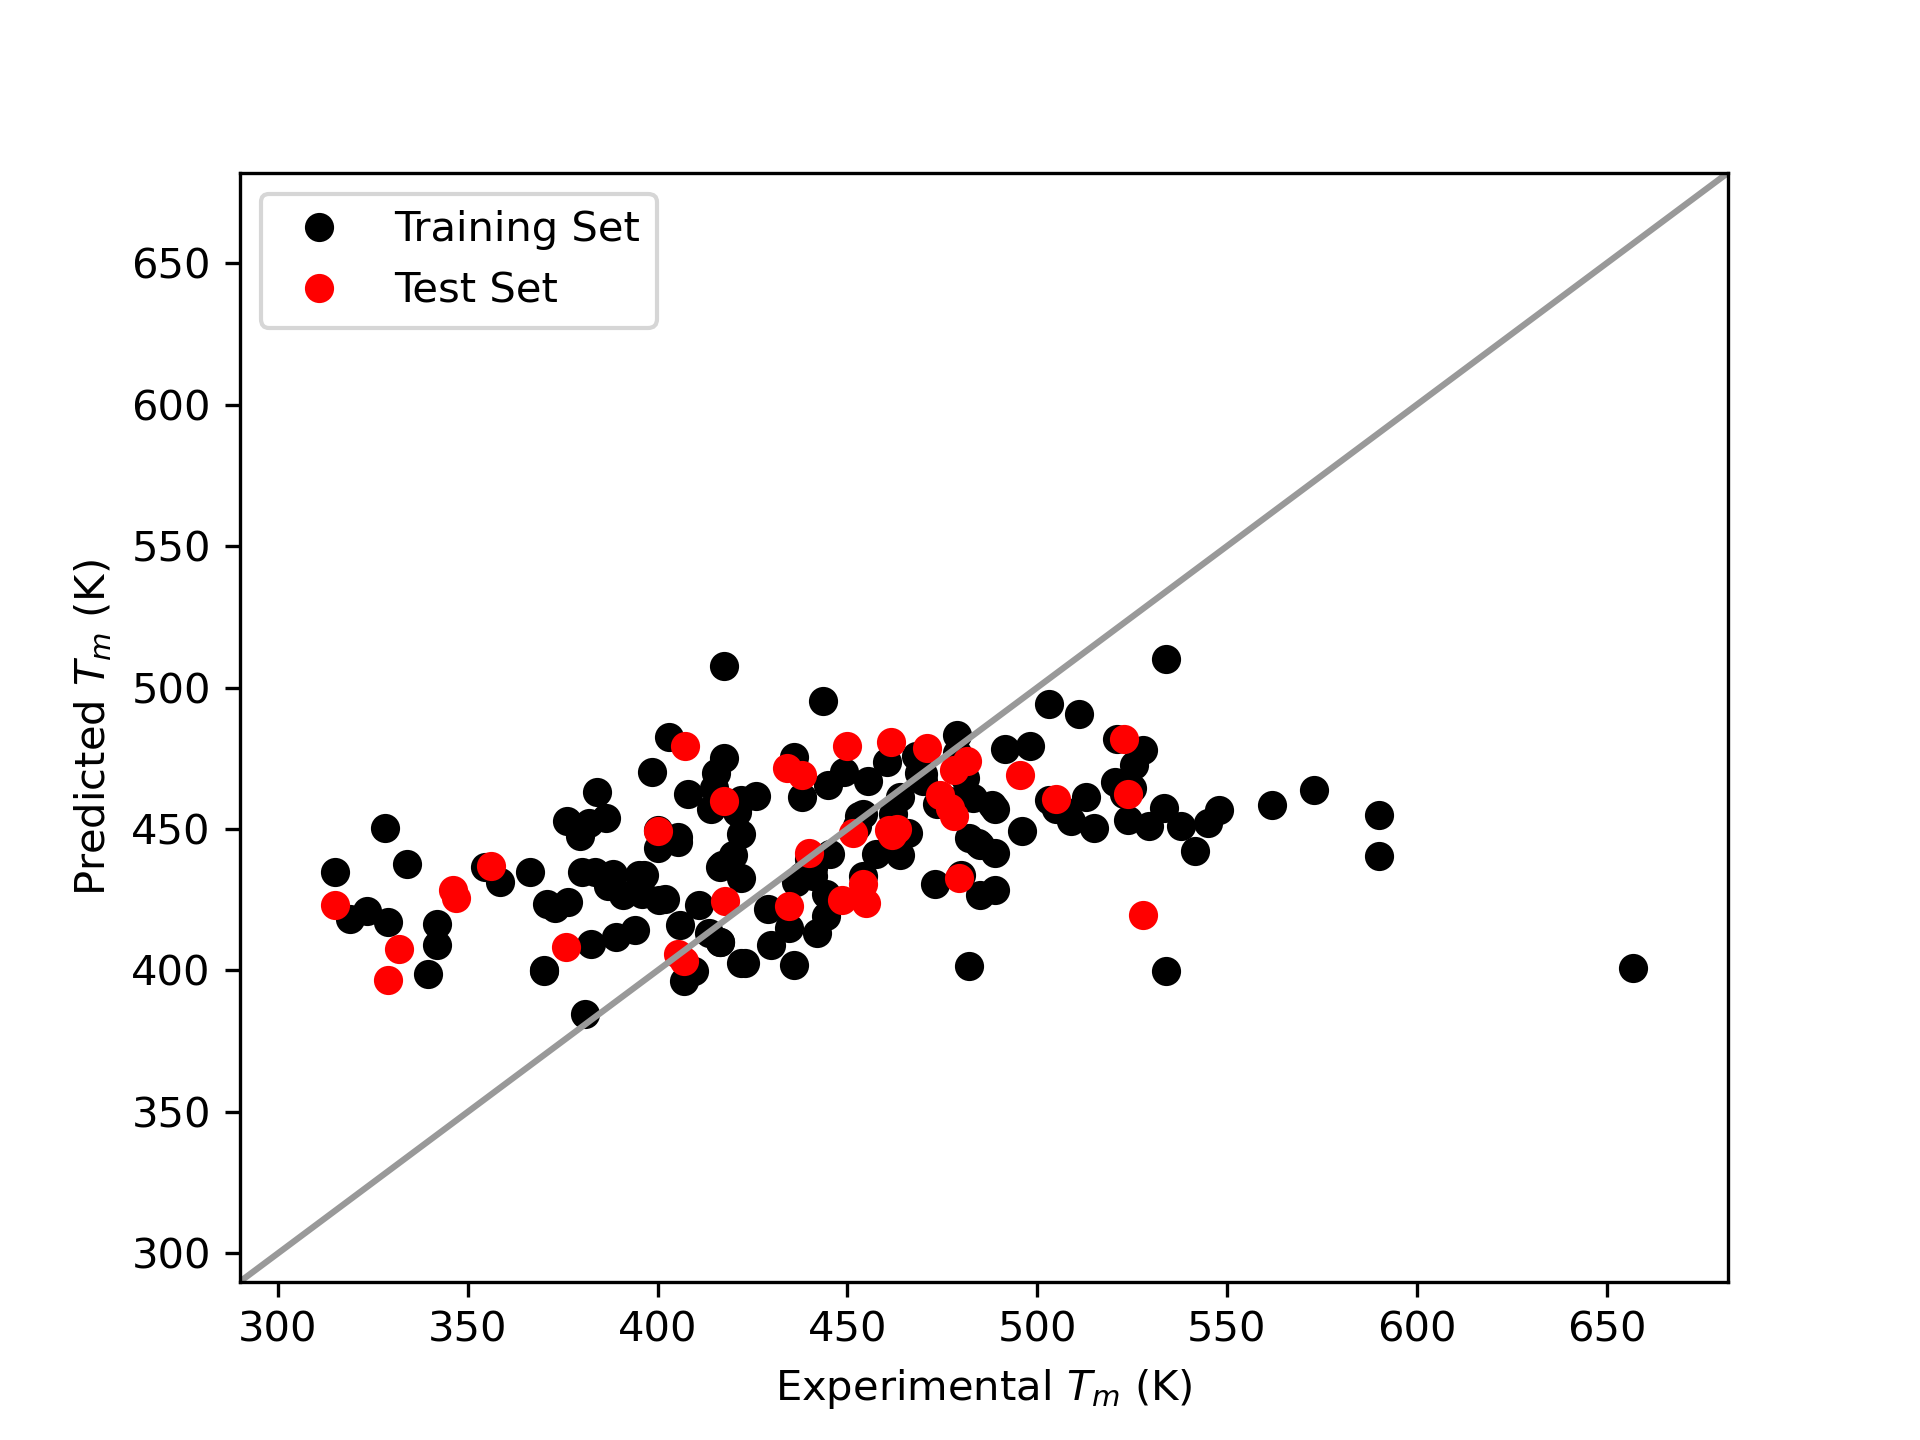
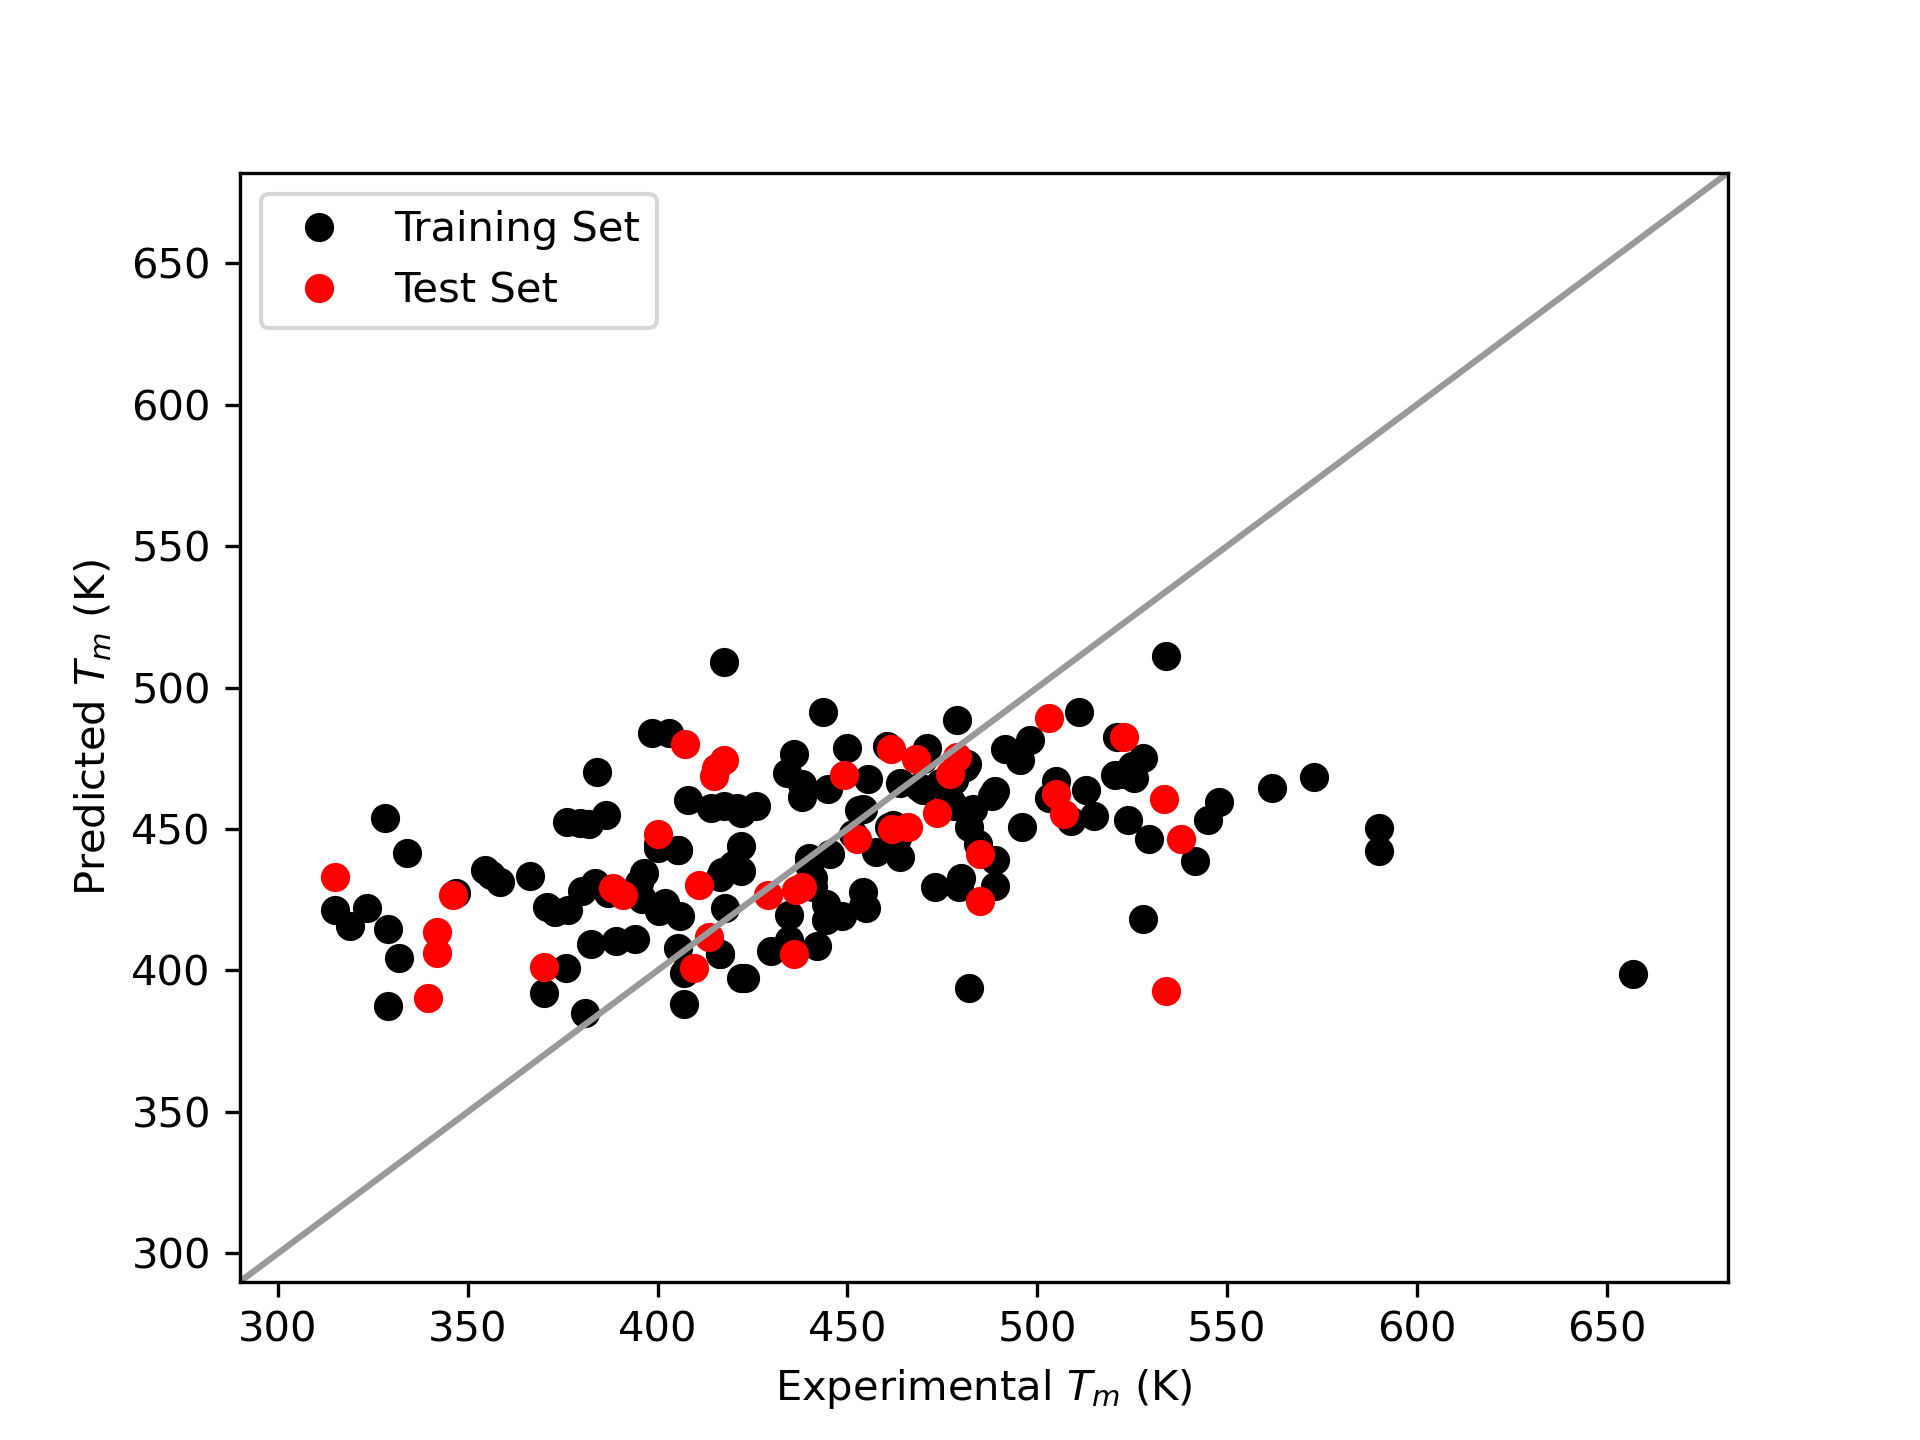
updated readme, reran plots

Changed region(s): [[0.1562, 0.4688, 0.75, 0.7188], [0.5625, 0.625, 0.625, 0.7188], [0.8438, 0.6562, 0.875, 0.6875]]

diff --git a/mp_prediction_paper.py b/mp_prediction_paper.py
@@ -557,7 +557,7 @@ elif working_ML_dataset.equals(hydroquinone_ML_data):
 ######### HYDROQUINONE ML PLOT ############## 
 
 working_ML_dataset=hydroquinone_ML_data
-# The training set and test set will only re-shuffle if do_featurization is set to true. Otherwise it will use the training and test set as split in the previous run where do_featurization was set to true to avoid the time required to featurize. 
+ 
 do_featurization = False
 ## EDIT ABOVE HERE - Change working dataset for Machine Learning Model ##
 
@@ -1018,9 +1018,6 @@ st.write(bqhq_parameters_df)
     # ```
     # '''
 
-# Questions for Antonio:
-    # How did you split the datasets into training and test sets? I didn't see where this happens in the code
-    # Do you use any of the functions in the helper_functions.py file? I couldn't find them in either parse_reaxys_data or featurization_regression.py
 
 # To do:
-    # Re-split training and test set for ML approach and re-write so that it re-shuffles on every run of the code
+    # Figure out if g should be + or -

diff --git a/README.md b/README.md
@@ -12,7 +12,7 @@ Virtual Environment Information:
         You can replace mppredictionpapervenv with whatever you want your virtual environment to be called
     To activate virtual environnment, in the terminal, type: conda activate mppredictionpapervenv
         You should see (mppredictionpapervenv) in front of your command line input now
-    When in vscode, make sure you selec the right interpreter by clicking on Python X.X.X in the bottom left corner, then selecting the (mppredictionpapervenv) interpreter from the top menu. You might need to restart VSCode to get it to show up.
+    When in vscode, make sure you select the right interpreter by clicking on Python X.X.X in the bottom left corner, then selecting the (mppredictionpapervenv) interpreter from the top menu. You can also navigate to this by pressing command+shift+p and typing interpreter -> select interpreter -> choose the one in the virtual environment. You might need to restart VSCode to get it to show up.
 
 Python 3.7.9 64-bit
 Packages to install (with commands):
